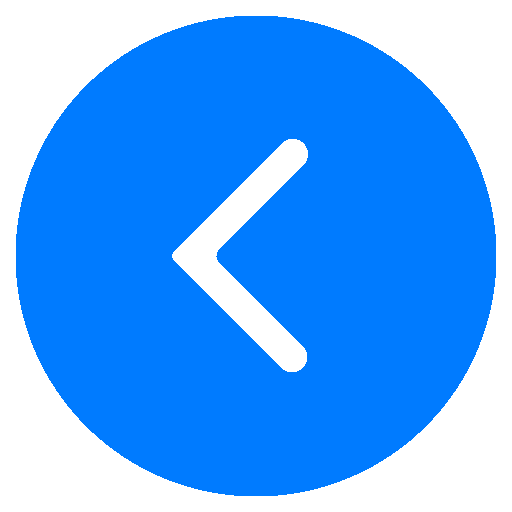
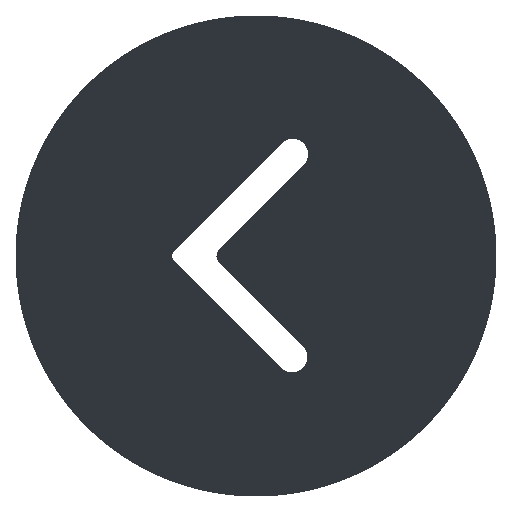
Redesigned navbar and footer, email send now functional, maps now not scrollable

diff --git a/contactus.html b/contactus.html
@@ -30,8 +30,10 @@
         <link rel="icon" type="image/x-icon" href="pics/ngnlogoo.png" />
     </head>
     <body>
-        <nav class="shadow navbar navbar-expand-lg navbar-dark bg-primary">
-            <a class="navbar-brand" href="index.html"><img src="pics\ngnlogoo.png" width="38" height="38" />NGN.NET Enterprises</a>
+        <nav class="shadow navbar navbar-expand-lg navbar-light bg-light">
+            <a class="navbar-brand" href="index.html"
+                ><img src="pics\ngnlogoo.png" width="30" height="30" class="d-inline-block align-top" />NGN.NET Enterprises</a
+            >
             <button
                 class="navbar-toggler"
                 type="button"
@@ -90,25 +92,18 @@
                     <div class="col-12 col-sm-12 col-md-6 col-lg-4 px-4 py-5 mx-auto" style="background-color: rgba(233, 236, 239, 0.25)">
                         <h1 class="display-5">Tell Us</h1>
                         <hr />
-                        <form>
-                            <div class="row">
-                                <div class="col pr-1">
-                                    <input id="field1" class="mb-1 form-control" type="text" required name="Name" placeholder="Name *" value="" />
-                                    <input id="field2" class="mb-1 form-control" type="text" required name="Email" placeholder="Email *" value="" />
-                                    <input id="field3" class="mb-1 form-control" type="text" name="Subject" placeholder="Subject" value="" />
-                                </div>
-                                <div class="col pl-1 d-flex align-items-stretch">
-                                    <textarea
-                                        id="field4"
-                                        class="mb-1 form-control"
-                                        style="resize: none"
-                                        name="Message"
-                                        placeholder="Message"
-                                        value=""
-                                    ></textarea>
-                                </div>
-                            </div>
-                            <button type="button" class="btn-sm btn-primary">Send</button>
+                        <form id="tellUsForm" method="post" onsubmit="sendEmail()">
+                            <input id="subjectField" class="mb-1 form-control" type="text" required name="Subject" placeholder="Subject *" value="" />
+                            <textarea
+                                id="bodyField"
+                                class="mb-1 form-control"
+                                style="resize: none"
+                                required
+                                name="Message"
+                                placeholder="Message *"
+                                value=""
+                            ></textarea>
+                            <button type="submit" class="btn-sm btn-dark">Send</button>
                         </form>
                     </div>
                 </div>
@@ -116,7 +111,7 @@
         </div>
 
         <footer class="text-light">
-            <div class="footer-copyright text-center py-2 bg-primary">Copyright © Scott Leo C. Reganit</div>
+            <div class="footer-copyright text-center py-2 bg-dark">Copyright © Scott Leo C. Reganit</div>
         </footer>
 
         <!-- Option 1: jQuery and Bootstrap Bundle (includes Popper) -->
@@ -132,6 +127,7 @@
         ></script>
 
         <script src="https://cdn.rawgit.com/openlayers/openlayers.github.io/master/en/v5.3.0/build/ol.js"></script>
+        <script src="https://smtpjs.com/v3/smtp.js"></script>
         <script>
             var map = new ol.Map({
                 target: "map",
@@ -143,6 +139,9 @@
                 view: new ol.View({
                     center: ol.proj.fromLonLat([123.197815, 13.621391]),
                     zoom: 18,
+                }),
+                interactions: ol.interaction.defaults({
+                    mouseWheelZoom: false,
                 }),
             });
 
@@ -190,6 +189,15 @@
 
             content.innerHTML = "We are located here!";
             overlay.setPosition(ol.proj.fromLonLat([123.197815, 13.621391]));
+
+            function sendEmail() {
+                var subject = document.getElementById("subjectField").value;
+                var body = document.getElementById("bodyField").value;
+
+                window.open(`mailto:lreganit@yahoo.com?subject=${subject}&body=${body}`);
+
+                document.getElementById("tellUsForm").reset();
+            }
         </script>
     </body>
 </html>

diff --git a/index.html b/index.html
@@ -26,8 +26,10 @@
         <link rel="icon" type="image/x-icon" href="pics/ngnlogoo.png" />
     </head>
     <body>
-        <nav class="shadow navbar navbar-expand-lg navbar-dark bg-primary">
-            <a class="navbar-brand" href="index.html"><img src="pics\ngnlogoo.png" width="38" height="38" />NGN.NET Enterprises</a>
+        <nav class="shadow navbar navbar-expand-lg navbar-light bg-light">
+            <a class="navbar-brand" href="index.html"
+                ><img src="pics\ngnlogoo.png" width="30" height="30" class="d-inline-block align-top" />NGN.NET Enterprises</a
+            >
             <button
                 class="navbar-toggler"
                 type="button"
@@ -92,7 +94,7 @@
                 <hr class="my-4" />
                 <p>Had quality projects undertaken around Bicol region, and will continue to do so.</p>
                 <p class="lead">
-                    <a class="btn btn-primary btn-lg" href="aboutus.html" role="button">Learn more</a>
+                    <a class="btn btn-lg btn-dark" href="aboutus.html" role="button">Learn more</a>
                 </p>
             </div>
 
@@ -141,7 +143,7 @@
         </div>
 
         <footer class="text-light">
-            <div class="footer-copyright text-center py-2 bg-primary">Copyright © Scott Leo C. Reganit</div>
+            <div class="footer-copyright text-center py-2 bg-dark">Copyright © Scott Leo C. Reganit</div>
         </footer>
 
         <!-- Option 1: jQuery and Bootstrap Bundle (includes Popper) -->
@@ -157,9 +159,7 @@
         ></script>
 
         <script>
-            $(".carousel").carousel({
-                interval: 2000,
-            });
+            $(".carousel").carousel("cycle");
         </script>
     </body>
 </html>

diff --git a/products.html b/products.html
@@ -26,8 +26,10 @@
         <link rel="icon" type="image/x-icon" href="pics/ngnlogoo.png" />
     </head>
     <body>
-        <nav class="shadow navbar navbar-expand-lg navbar-dark bg-primary">
-            <a class="navbar-brand" href="index.html"><img src="pics\ngnlogoo.png" width="38" height="38" />NGN.NET Enterprises</a>
+        <nav class="shadow navbar navbar-expand-lg navbar-light bg-light">
+            <a class="navbar-brand" href="index.html"
+                ><img src="pics\ngnlogoo.png" width="30" height="30" class="d-inline-block align-top" />NGN.NET Enterprises</a
+            >
             <button
                 class="navbar-toggler"
                 type="button"
@@ -167,7 +169,7 @@
             </div>
         </div>
 
-        <div class="text-center text-light" style="background-color: rgba(0, 123, 255, 0.75)">
+        <div class="text-center text-light" style="background-color: rgba(52, 58, 64, 0.75)">
             Icons made by
             <a href="https://www.flaticon.com/authors/freepik" title="Freepik" class="text-green">Freepik</a>,
             <a href="https://www.flaticon.com/authors/good-ware" title="Good Ware" class="text-green">Good Ware</a>,
@@ -181,7 +183,7 @@
             <a href="https://www.flaticon.com/" title="Flaticon" class="text-green"> www.flaticon.com</a>
         </div>
         <footer class="text-light">
-            <div class="footer-copyright text-center py-2 bg-primary">Copyright © Scott Leo C. Reganit</div>
+            <div class="footer-copyright text-center py-2 bg-dark">Copyright © Scott Leo C. Reganit</div>
         </footer>
 
         <!-- Option 1: jQuery and Bootstrap Bundle (includes Popper) -->

diff --git a/aboutus.html b/aboutus.html
@@ -27,8 +27,10 @@
     </head>
     <body>
         <!-- Navbar -->
-        <nav class="shadow navbar navbar-expand-lg navbar-dark bg-primary">
-            <a class="navbar-brand" href="index.html"><img src="pics\ngnlogoo.png" width="38" height="38" />NGN.NET Enterprises</a>
+        <nav class="shadow navbar navbar-expand-lg navbar-light bg-light">
+            <a class="navbar-brand" href="index.html"
+                ><img src="pics\ngnlogoo.png" width="30" height="30" class="d-inline-block align-top" />NGN.NET Enterprises</a
+            >
             <button
                 class="navbar-toggler"
                 type="button"
@@ -309,11 +311,8 @@
         </div>
 
         <footer class="text-light">
-            <div class="footer-copyright text-center py-2 bg-primary">Copyright © Scott Leo C. Reganit</div>
+            <div class="footer-copyright text-center py-2 bg-dark">Copyright © Scott Leo C. Reganit</div>
         </footer>
-
-        <!-- JS, Popper.js, and jQuery -->
-        <script src="https://kit.fontawesome.com/a076d05399.js"></script>
 
         <!-- Option 1: jQuery and Bootstrap Bundle (includes Popper) -->
         <script
@@ -326,5 +325,9 @@
             integrity="sha384-fQybjgWLrvvRgtW6bFlB7jaZrFsaBXjsOMm/tB9LTS58ONXgqbR9W8oWht/amnpF"
             crossorigin="anonymous"
         ></script>
+
+        <script>
+            $(".carousel").carousel("cycle");
+        </script>
     </body>
 </html>
